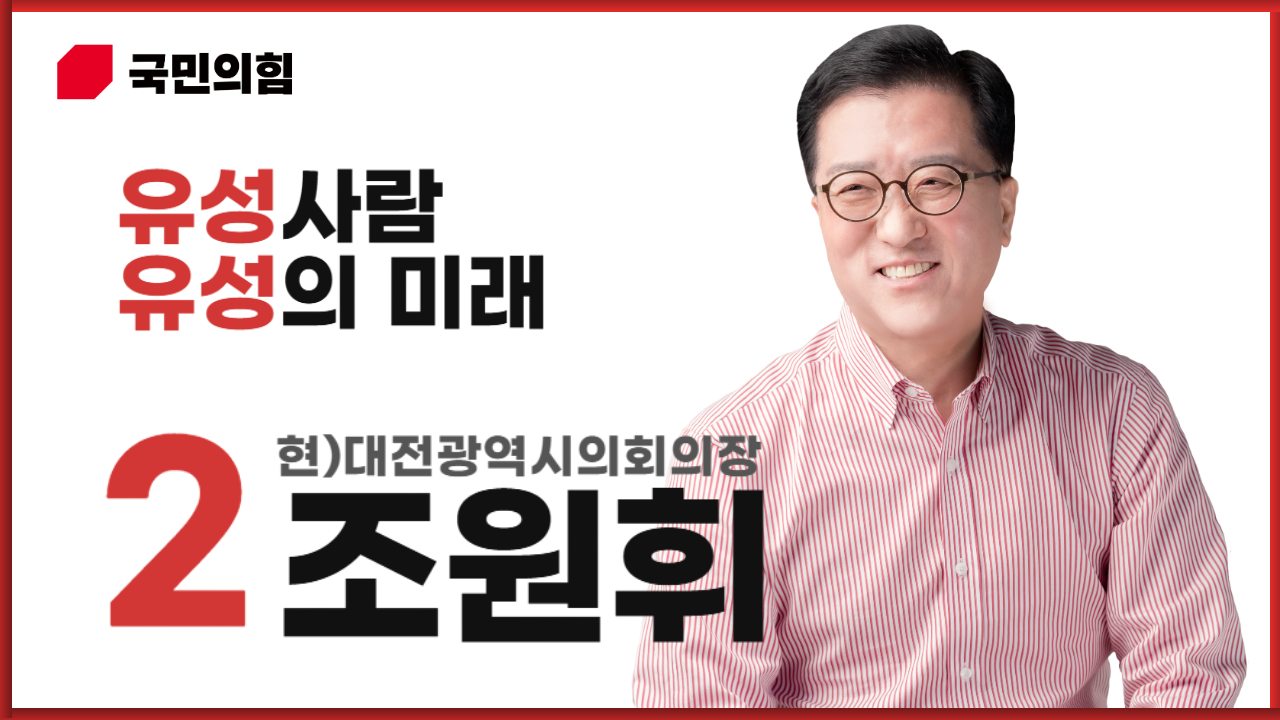
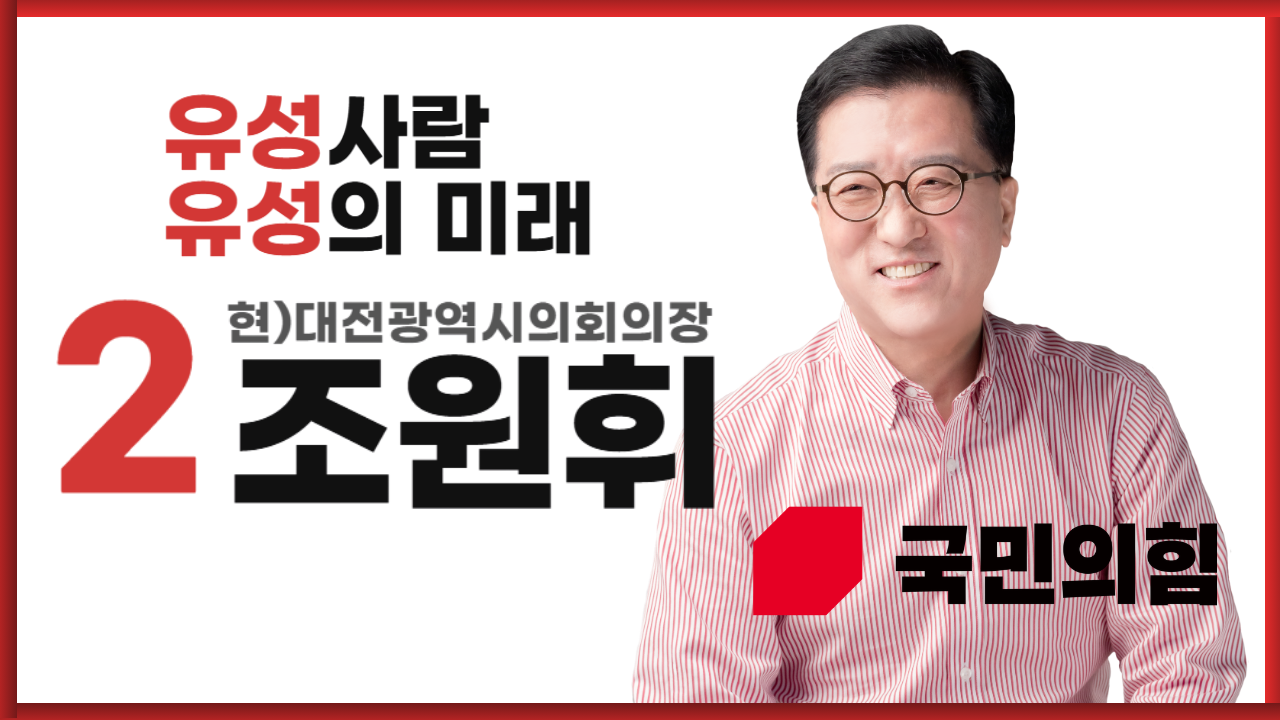
OG 배너 이미지 교체 및 설명 텍스트 변경 (NO.1원캠프)

Changed region(s): [[0.0, 0.0, 1.0, 1.0]]

diff --git a/index.html b/index.html
@@ -5,7 +5,7 @@
     <meta name="viewport" content="width=device-width, initial-scale=1">
     <title>조원휘 - 바꿔유성! NO.1원캠프</title>
     <meta property="og:title" content="조원휘 - 바꿔유성! NO.1원캠프">
-    <meta property="og:description" content="바꿔유성! 조원휘와 함께하는 유성구 변화 캠프. 시민 참여형 콘텐츠 · 공약 확인">
+    <meta property="og:description" content="바꿔유성! 조원휘와 함께하는 NO.1원캠프">
     <meta property="og:image" content="https://rkdxh205.github.io/jowonhee/%EB%B0%B0%EB%84%88.png">
     <meta property="og:image:width" content="800">
     <meta property="og:image:height" content="400">
